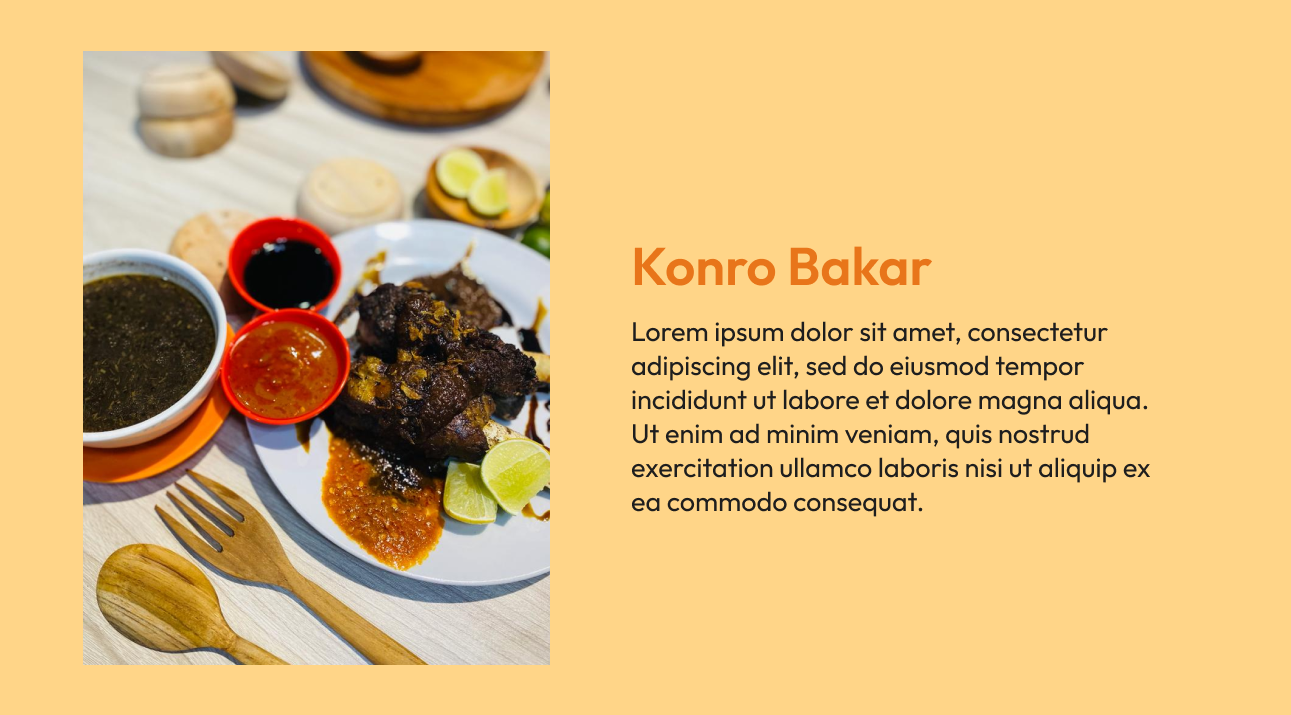
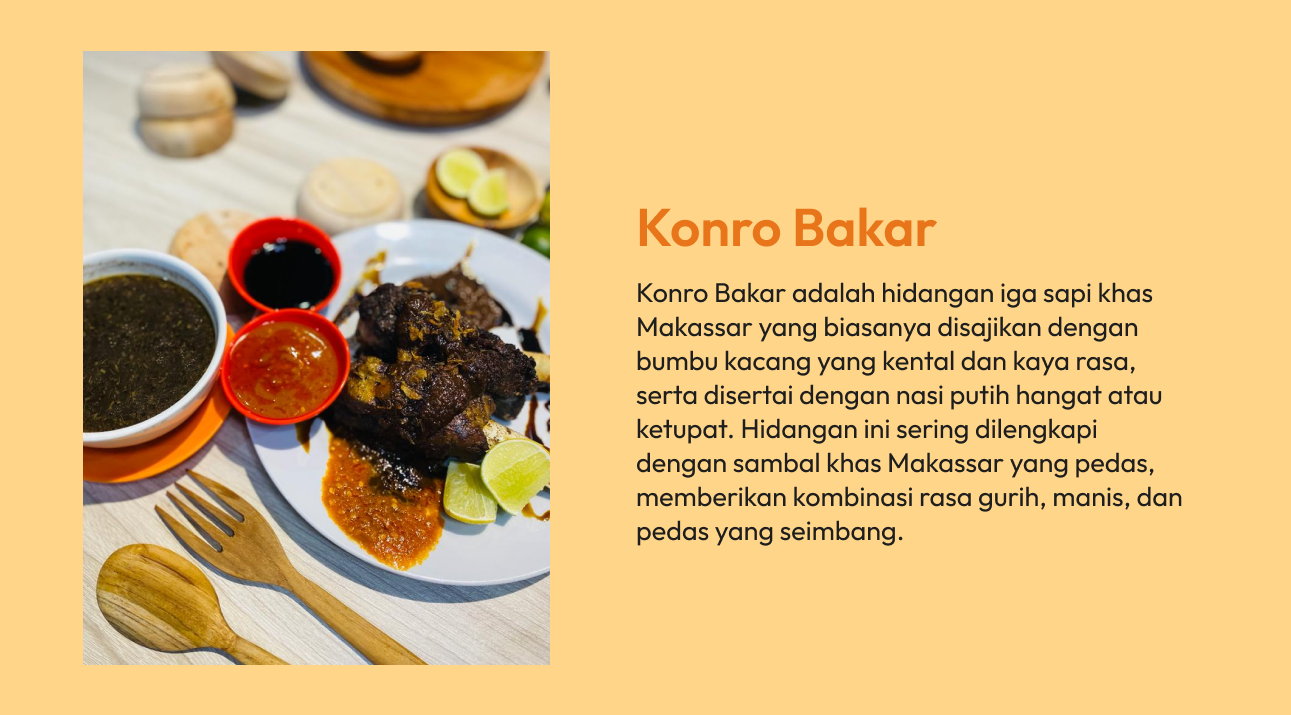
ninth commit

Changed region(s): [[0.4648, 0.2769, 0.9295, 0.7692]]

diff --git a/landing.html b/landing.html
@@ -58,11 +58,11 @@
       <main class="content">
         <h1>ReservEat</h1>
         <p>
-          Lorem ipsum dolor sit amet, consectetur adipiscing elit, sed do
-          eiusmod tempor incididunt ut labore et dolore magna aliqua.
+          Segera lakukan reservasi tempat dan pesan makanan favoritmu di Coto
+          HB'Eng hanya melalui ReservEat!
         </p>
         <a href="#rsvnow" class="rsv-now">Reserve now</a>
-        <a href="#cta" class="cta">Contact us</a>
+        <a href="https://wa.me/6282194229051" class="cta">Contact us</a>
       </main>
     </section>
     <!-- JUMBOTRON END -->
@@ -79,10 +79,12 @@
             <h2>Coto HB'Eng</h2>
           </div>
           <p>
-            Lorem, ipsum dolor sit amet consectetur adipisicing elit. At enim
-            nam unde et dolor debitis itaque libero. Nostrum, aspernatur iure.
-            Sequi officia ratione at porro debitis animi possimus culpa ipsam,
-            consequatur, blanditiis provident pariatur earum.
+            Coto HB'Eng adalah restoran yang menyajikan kelezatan autentik
+            masakan khas Sulawesi Selatan, seperti Coto Makassar dan Konro.
+            Selain itu, Coto HB'Eng juga menyediakan berbagai hidangan sajian
+            laut segar seperti kuliner Dada Tuna yang hanya dapat ditemukan di
+            Kota Sorong. Nikmati cita rasa otentik Sulawesi Selatan dan segarnya
+            seafood hanya di Coto HB'Eng.
           </p>
         </div>
       </div>
@@ -175,11 +177,12 @@
         <div class="coto-hbeng">
           <h1>Coto HB'Eng</h1>
           <p>
-            Lorem ipsum dolor sit amet consectetur adipisicing elit. Distinctio
-            possimus, obcaecati et vero provident veniam consequuntur earum
-            pariatur quisquam laboriosam. Aliquam voluptatum rem laudantium esse
-            et, consequuntur dolorum voluptatibus impedit molestias corrupti
-            quae soluta debitis, labore error aut nemo doloribus.
+            Coto HB'Eng adalah restoran yang menyajikan kelezatan autentik
+            masakan khas Sulawesi Selatan, seperti Coto Makassar dan Konro.
+            Selain itu, Coto HB'Eng juga menyediakan berbagai hidangan sajian
+            laut segar seperti kuliner Dada Tuna yang hanya dapat ditemukan di
+            Kota Sorong. Nikmati cita rasa otentik Sulawesi Selatan dan segarnya
+            seafood hanya di Coto HB'Eng.
           </p>
         </div>
 

diff --git a/reservation3.html b/reservation3.html
@@ -692,7 +692,7 @@
         <div class="sidebar-footer">
           <div class="total-amount">
             <h5>Total</h5>
-            <div class="cart-total">Rp0</div>
+            <div class="cart-total">Rp68.000</div>
           </div>
           <button class="checkout-btn">Checkout</button>
         </div>

diff --git a/profile.html b/profile.html
@@ -104,7 +104,7 @@
       <!-- BUTTON -->
       <div class="button-rsv">
         <div class="submit-rsv rsv-preorder">
-          <a href="#">Logout</a>
+          <button>Logout</button>
         </div>
       </div>
       <!-- BUTTON END -->
